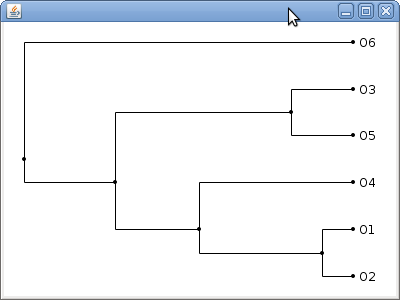
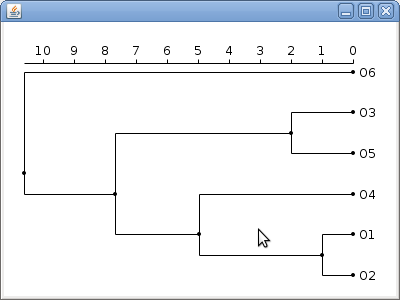
Display distance scale

diff --git a/src/main/java/com/apporiented/algorithm/clustering/visualization/DendrogramPanel.java b/src/main/java/com/apporiented/algorithm/clustering/visualization/DendrogramPanel.java
@@ -13,10 +13,10 @@ import java.awt.geom.Rectangle2D;
 import javax.swing.JFrame;
 import javax.swing.JPanel;
 
+import com.apporiented.algorithm.clustering.AverageLinkageStrategy;
 import com.apporiented.algorithm.clustering.Cluster;
 import com.apporiented.algorithm.clustering.ClusteringAlgorithm;
 import com.apporiented.algorithm.clustering.DefaultClusteringAlgorithm;
-import com.apporiented.algorithm.clustering.SingleLinkageStrategy;
 
 public class DendrogramPanel extends JPanel {
 
@@ -31,11 +31,17 @@ public class DendrogramPanel extends JPanel {
 	private Cluster model;
 	private ClusterComponent component;
 	private Color lineColor = Color.BLACK;
-	private boolean showDistanceValues= false;
+	private boolean showDistanceValues = false;
+	private boolean showScale = true;
 	private int borderTop = 20;
 	private int borderLeft = 20;
 	private int borderRight = 20;
 	private int borderBottom = 20;
+	private int scalePadding = 10;
+	private int scaleTickLength = 4;
+	private int scaleTickLabelPadding = 4;
+	private double scaleValueInterval = 0;
+	private int scaleValueDecimals = 0;
 	
 	private double xModelOrigin = 0.0;
 	private double yModelOrigin = 0.0;
@@ -51,7 +57,47 @@ public class DendrogramPanel extends JPanel {
 		this.showDistanceValues = showDistanceValues;
 	}
 
-	public int getBorderTop() {
+	public boolean isShowScale() {
+        return showScale;
+    }
+
+    public void setShowScale(boolean showScale) {
+        this.showScale = showScale;
+    }
+
+    public int getScalePadding() {
+        return scalePadding;
+    }
+
+    public void setScalePadding(int scalePadding) {
+        this.scalePadding = scalePadding;
+    }
+
+    public int getScaleTickLength() {
+        return scaleTickLength;
+    }
+
+    public void setScaleTickLength(int scaleTickLength) {
+        this.scaleTickLength = scaleTickLength;
+    }
+
+    public double getScaleValueInterval() {
+        return scaleValueInterval;
+    }
+
+    public void setScaleValueInterval(double scaleTickInterval) {
+        this.scaleValueInterval = scaleTickInterval;
+    }
+
+    public int getScaleValueDecimals() {
+        return scaleValueDecimals;
+    }
+
+    public void setScaleValueDecimals(int scaleValueDecimals) {
+        this.scaleValueDecimals = scaleValueDecimals;
+    }
+
+    public int getBorderTop() {
 		return borderTop;
 	}
 
@@ -120,22 +166,18 @@ public class DendrogramPanel extends JPanel {
 	    if (cluster != null) {
 	        comp = new ClusterComponent(cluster, cluster.isLeaf(), initCoord);
 	        double leafHeight = clusterHeight / cluster.countLeafs();
-	        
-	        /* Children's y start here */
 	        double yChild = initCoord.getY() - (clusterHeight / 2);
             double distance = cluster.getDistance() == null ? 0 : cluster.getDistance();
 	        for (Cluster child : cluster.getChildren()) {
                 int childLeafCount = child.countLeafs();
                 double childHeight = childLeafCount * leafHeight;
-                
                 double childDistance = child.getDistance() == null ? 0 : child.getDistance();
                 VCoord childInitCoord = new VCoord(initCoord.getX() + (distance - childDistance) , yChild + childHeight / 2.0);
                 yChild += childHeight;
                 
                 /* Traverse cluster node tree */
                 ClusterComponent childComp = createComponent(child, childInitCoord, childHeight);
-                
-                // TODO Fix redundancy here!
+
                 childComp.setLinkPoint(initCoord);
                 comp.getChildren().add(childComp);
             }
@@ -172,12 +214,52 @@ public class DendrogramPanel extends JPanel {
 		    int nameGutterWidth = component.getMaxNameWidth(g2, false) + component.getNamePadding();
             wDisplay -= nameGutterWidth;
             
+            if (showScale) {
+                Rectangle2D rect =  g2.getFontMetrics().getStringBounds("0", g2);
+                int scaleHeight = (int)rect.getHeight() + scalePadding + scaleTickLength + scaleTickLabelPadding;
+                hDisplay -= scaleHeight;
+                yDisplayOrigin += scaleHeight;
+            }
+            
             /* Calculate conversion factor and offset for display */
             double xFactor = wDisplay / wModel;
             double yFactor = hDisplay / hModel;
             int xOffset = (int)(xDisplayOrigin - xModelOrigin * xFactor);
             int yOffset = (int)(yDisplayOrigin - yModelOrigin * yFactor);
-	        component.paint(g2, xOffset, yOffset, xFactor, yFactor);
+	        component.paint(g2, xOffset, yOffset, xFactor, yFactor, showDistanceValues);
+	        
+	        if (showScale) {
+                int x1 = xDisplayOrigin;
+                int y1 = yDisplayOrigin - scalePadding;
+                int x2 = x1 + wDisplay;
+                int y2 = y1;
+                g2.drawLine(x1, y1, x2, y2);
+                
+                double totalDistance = component.getCluster().getTotalDistance();
+                double xModelInterval;
+                if (scaleValueInterval <= 0) {
+                    xModelInterval = totalDistance / 10.0;
+                }
+                else {
+                    xModelInterval = scaleValueInterval;
+                }
+
+                int xTick = xDisplayOrigin + wDisplay;
+                y1 = (int)(yDisplayOrigin - scalePadding);
+                y2 = (int)(yDisplayOrigin - scalePadding - scaleTickLength);
+                double distanceValue = 0;
+                double xDisplayInterval = xModelInterval * xFactor;
+                while (xTick >= xDisplayOrigin) {
+                    g2.drawLine(xTick, y1, xTick, y2);
+                    
+                    String distanceValueStr = String.format("%." + scaleValueDecimals + "f", distanceValue);
+                    Rectangle2D rect =  g2.getFontMetrics().getStringBounds(distanceValueStr, g2);
+                    g2.drawString(distanceValueStr, (int)(xTick - (rect.getWidth() / 2)), y2 - scaleTickLabelPadding);
+                    xTick -= xDisplayInterval;
+                    distanceValue += xModelInterval;
+                }
+                
+	        }
 		}
 		else {
 
@@ -205,6 +287,9 @@ public class DendrogramPanel extends JPanel {
 		content.add(dp, BorderLayout.CENTER);
 		dp.setBackground(Color.WHITE);
 		dp.setLineColor(Color.BLACK);
+		dp.setScaleValueDecimals(0);
+		dp.setScaleValueInterval(1);
+		dp.setShowDistances(false);
 		
 	    Cluster cluster = createSampleCluster();
 		dp.setModel(cluster);
@@ -219,7 +304,7 @@ public class DendrogramPanel extends JPanel {
 	    String[] names = new String[] { "O1", "O2", "O3", "O4", "O5", "O6" };
 	    ClusteringAlgorithm alg = new DefaultClusteringAlgorithm();
         Cluster cluster = alg.performClustering(distances, names,
-                new SingleLinkageStrategy());
+                new AverageLinkageStrategy());
         cluster.toConsole(0);
         return cluster;
     }

diff --git a/src/main/java/com/apporiented/algorithm/clustering/visualization/ClusterComponent.java b/src/main/java/com/apporiented/algorithm/clustering/visualization/ClusterComponent.java
@@ -1,5 +1,6 @@
 package com.apporiented.algorithm.clustering.visualization;
 
+import java.awt.FontMetrics;
 import java.awt.Graphics2D;
 import java.awt.geom.Rectangle2D;
 import java.util.ArrayList;
@@ -86,9 +87,9 @@ public class ClusterComponent implements Paintable {
 	}
 
     @Override
-    public void paint(Graphics2D g, int xDisplayOffset, int yDisplayOffset, double xDisplayFactor, double yDisplayFactor) {
+    public void paint(Graphics2D g, int xDisplayOffset, int yDisplayOffset, double xDisplayFactor, double yDisplayFactor, boolean decorated) {
         int x1, y1, x2, y2;
-        
+        FontMetrics fontMetrics =  g.getFontMetrics();
         x1 = (int)(initPoint.getX() * xDisplayFactor + xDisplayOffset);
         y1 = (int)(initPoint.getY() * yDisplayFactor + yDisplayOffset);
         x2 = (int)(linkPoint.getX() * xDisplayFactor + xDisplayOffset);
@@ -97,18 +98,22 @@ public class ClusterComponent implements Paintable {
         g.drawLine(x1, y1, x2, y2);
 
         if (cluster.isLeaf()) {
-            int hFont =  g.getFontMetrics().getHeight();
-            g.drawString(cluster.getName(), x1 + namePadding, y1 + (hFont/2) - 2);
+            g.drawString(cluster.getName(), x1 + namePadding, y1 + (fontMetrics.getHeight()/2) - 2);
         }
- 
+        if (decorated && cluster.getDistance() != null && !cluster.getDistance().isNaN() && cluster.getDistance() > 0) {
+            String s = String.format("%.2f", cluster.getDistance());
+            Rectangle2D rect = fontMetrics.getStringBounds(s, g);
+            g.drawString(s, x1 - (int)rect.getWidth() , y1 - 2);
+        }
+        
         x1 = x2;
         y1 = y2;
-        x2 = x1;
         y2 = (int)(linkPoint.getY() * yDisplayFactor + yDisplayOffset);
         g.drawLine(x1, y1, x2, y2);
         
+        
         for (ClusterComponent child : children) {
-            child.paint(g, xDisplayOffset, yDisplayOffset, xDisplayFactor, yDisplayFactor);
+            child.paint(g, xDisplayOffset, yDisplayOffset, xDisplayFactor, yDisplayFactor, decorated);
         }
     }
     

diff --git a/src/main/java/com/apporiented/algorithm/clustering/Cluster.java b/src/main/java/com/apporiented/algorithm/clustering/Cluster.java
@@ -100,11 +100,20 @@ public class Cluster {
             System.out.print("  ");
             
         }
-        String name = getName() + (isLeaf() ? " (leaf)" : "");
+        String name = getName() + (isLeaf() ? " (leaf)" : "") + (distance != null ? "  distance: " + distance : "");
         System.out.println(name);
         for (Cluster child : getChildren()) {
             child.toConsole(indent + 1);
         }
+    }
+
+    public double getTotalDistance() {
+        double dist = getDistance() == null ? 0 : getDistance();
+        if (getChildren().size() > 0) {
+            dist += children.get(0).getTotalDistance();
+        }
+        return dist;
+
     }
 	   
 }

diff --git a/src/main/java/com/apporiented/algorithm/clustering/visualization/Paintable.java b/src/main/java/com/apporiented/algorithm/clustering/visualization/Paintable.java
@@ -9,6 +9,6 @@ import java.awt.Graphics2D;
  */
 public interface Paintable {
 
-    void paint(Graphics2D g, int xDisplayOffset, int yDisplayOffset, double xDisplayFactor, double yDisplayFactor);
+    void paint(Graphics2D g, int xDisplayOffset, int yDisplayOffset, double xDisplayFactor, double yDisplayFactor, boolean decorated);
     
 }

diff --git a/src/test/java/com/apporiented/algorithm/clustering/ClusterTest.java b/src/test/java/com/apporiented/algorithm/clustering/ClusterTest.java
@@ -21,4 +21,10 @@ public class ClusterTest {
         int leafs = cluster.countLeafs();
         assertEquals(6, leafs);
     }
+    
+    @Test
+    public void testGetTotalDistance() throws Exception {
+        int dist = (int) cluster.getTotalDistance();
+        assertEquals(10, dist);
+    }
 }

diff --git a/README.md b/README.md
@@ -33,7 +33,7 @@ You may want to visualize the result using the Swing component *DendrogramPanel*
     DendrogramPanel dp = new DendrogramPanel();
     dp.setModel(cluster);
 
-Whem embedded into a JFrame the dendrogram panel should display this:
+When embedded into a JFrame the dendrogram panel should display this:
 
 ![Screenshot](https://raw.github.com/lbehnke/hierarchical-clustering-java/master/etc/screenshot1.png "Average linkage")
 
@@ -43,9 +43,7 @@ Same data but different linkage strategy (MinimumLinkageStrategy) result in this
 
 Wikipedia references
 --------------------
-[Average linkage clustering](http://en.wikipedia.org/wiki/UPGMA "Average linkage clustering")
-
-[Single linkage clustering](http://en.wikipedia.org/wiki/Single-linkage_clustering "Single linkage clustering")
-
-[Complete linkage clustering](http://en.wikipedia.org/wiki/Complete_linkage_clustering "Complete linkage clustering")
+* [Average linkage clustering](http://en.wikipedia.org/wiki/UPGMA "Average linkage clustering")
+* [Single linkage clustering](http://en.wikipedia.org/wiki/Single-linkage_clustering "Single linkage clustering")
+* [Complete linkage clustering](http://en.wikipedia.org/wiki/Complete_linkage_clustering "Complete linkage clustering")
 
